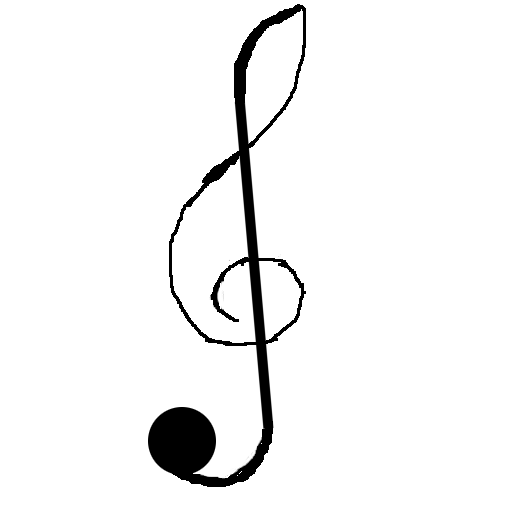
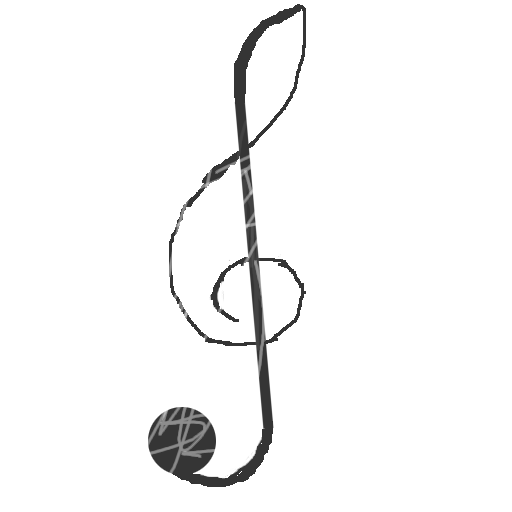
Transparency works!!!!!!!!!!!!!!!!!!!

diff --git a/src/render/pipeline/Pipeline.cpp b/src/render/pipeline/Pipeline.cpp
@@ -84,9 +84,9 @@ Pipeline::Pipeline(Device *device, PipelineLayout *layout,
     colorBlendAttachment.dstColorBlendFactor =
         VK_BLEND_FACTOR_ONE_MINUS_SRC_ALPHA;
     colorBlendAttachment.colorBlendOp = VK_BLEND_OP_ADD;
-    colorBlendAttachment.srcAlphaBlendFactor = VK_BLEND_FACTOR_SRC_ALPHA;
-    colorBlendAttachment.dstAlphaBlendFactor =
-        VK_BLEND_FACTOR_ONE_MINUS_SRC_ALPHA;
+    // colorBlendAttachment.srcAlphaBlendFactor = VK_BLEND_FACTOR_SRC_ALPHA;
+    // colorBlendAttachment.dstAlphaBlendFactor =
+    //     VK_BLEND_FACTOR_ONE_MINUS_SRC_ALPHA;
     colorBlendAttachment.alphaBlendOp = VK_BLEND_OP_ADD;
 
     VkPipelineColorBlendStateCreateInfo colorBlending{};
@@ -96,10 +96,11 @@ Pipeline::Pipeline(Device *device, PipelineLayout *layout,
     colorBlending.logicOp = VK_LOGIC_OP_COPY;
     colorBlending.attachmentCount = 1;
     colorBlending.pAttachments = &colorBlendAttachment;
-    colorBlending.blendConstants[0] = 1.f;
-    colorBlending.blendConstants[1] = 1.f;
-    colorBlending.blendConstants[2] = 1.f;
-    colorBlending.blendConstants[3] = 1.f;
+    colorBlending.blendConstants[0] = 0.f;
+    colorBlending.blendConstants[1] = 0.f;
+    colorBlending.blendConstants[2] = 0.f;
+    colorBlending.blendConstants[3] = 0.f;
+    colorBlending.flags = 0;
 
     VkGraphicsPipelineCreateInfo pipelineInfo{};
     pipelineInfo.sType = VK_STRUCTURE_TYPE_GRAPHICS_PIPELINE_CREATE_INFO;

diff --git a/src/render/Renderer.cpp b/src/render/Renderer.cpp
@@ -42,10 +42,15 @@ void Renderer::initVulkan() {
     textures.push_back(sol);
     Entity* e = new Entity(model, img, "Bob");
     entities.push_back(e);
-    guis.push_back(new Gui(sol, "key"));
     guis.push_back(new Gui(partition, "partition"));
-    guis[0]->setPosition({0.5f, 0, -0.01f});
-    guis[1]->setPosition({0, 0, -0.02f});
+    guis.push_back(new Gui(sol, "key"));
+    guis.push_back(new Gui(sol, "key"));
+    guis[0]->setPosition({0, 0, -0.02f});
+    guis[0]->setSize({10, 1});
+    guis[1]->setPosition({0.7f, 0.1f, -0.01f});
+    guis[1]->setSize({0.75f, 0.75f});
+    guis[2]->setPosition({0.3f, 0.1f, 0});
+    guis[2]->setSize({0.75f, 0.75f});
     guiSampler = new TextureSampler(&physicalDevice, device);
     textureSampler = new TextureSampler(&physicalDevice, device);
     createVertexBuffer(model->toVertexBuffer()->getSize());
@@ -482,7 +487,7 @@ void Renderer::recordCommandBuffer(CommandBuffer* commandBuffer,
     commandBuffer->begin();
 
     std::vector<VkClearValue> clearValues = {VkClearValue(), VkClearValue()};
-    clearValues[0].color = {{1.0f, 0.0f, 0.0f, 1.0f}};
+    clearValues[0].color = {{0.0f, 0.0f, 0.0f, 0.0f}};
     clearValues[1].depthStencil = {1.0f, 0};
 
     commandBuffer->beginRenderPass(swapchain, imageIndex, clearValues.data(),

diff --git a/src/entity/Entity.cpp b/src/entity/Entity.cpp
@@ -1,6 +1,7 @@
 #include "Entity.hpp"
 
 #include <math.h>
+#include <stdlib.h>
 
 Entity::Entity(Model* model, ImageView* texture, const char* name) {
     this->model = model;
@@ -17,7 +18,6 @@ glm::vec3 Entity::getSize() const { return this->size; }
 
 const char* Entity::getName() const { return this->name; }
 
-#include <stdlib.h>
 ShaderData* Entity::getShaderData() const {
     ShaderData* data = new ShaderData();
     EntityData* edata = (EntityData*)malloc(sizeof(EntityData));

diff --git a/src/entity/Gui.cpp b/src/entity/Gui.cpp
@@ -12,6 +12,7 @@ float Gui::getRotation() const { return (rotation - ((int)rotation / (M_PI))); }
 glm::vec2 Gui::getSize() const { return size; }
 
 void Gui::setPosition(glm::vec3 pos) { this->position = pos; }
+void Gui::setSize(glm::vec2 size) { this->size = size; }
 
 bool Gui::update(float time) { return false; }
 

diff --git a/include/entity/Gui.hpp b/include/entity/Gui.hpp
@@ -25,6 +25,7 @@ class Gui {
     glm::vec2 getSize() const;
 
     void setPosition(glm::vec3 pos);
+    void setSize(glm::vec2 size);
 
     virtual bool update(float time);
 

diff --git a/src/main.cpp b/src/main.cpp
@@ -1,5 +1,6 @@
 #define GLFW_INCLUDE_VULKAN
 #include <GLFW/glfw3.h>
+#include <stdlib.h>
 
 #include <iostream>
 #include <stdexcept>
